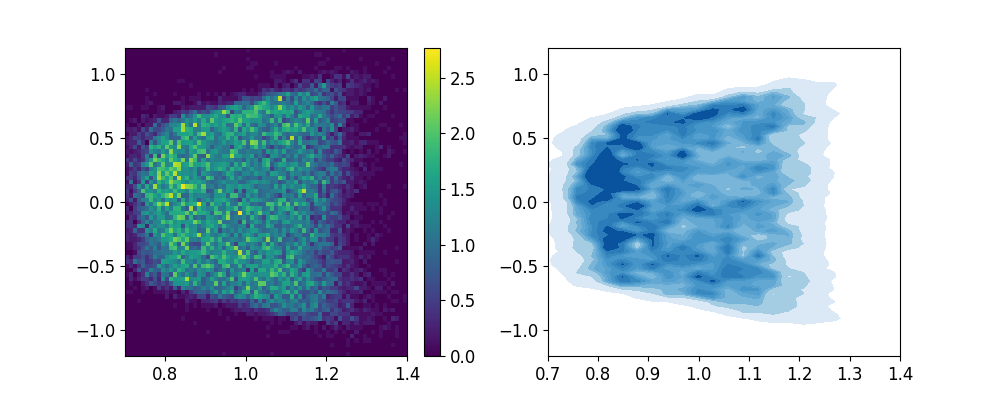
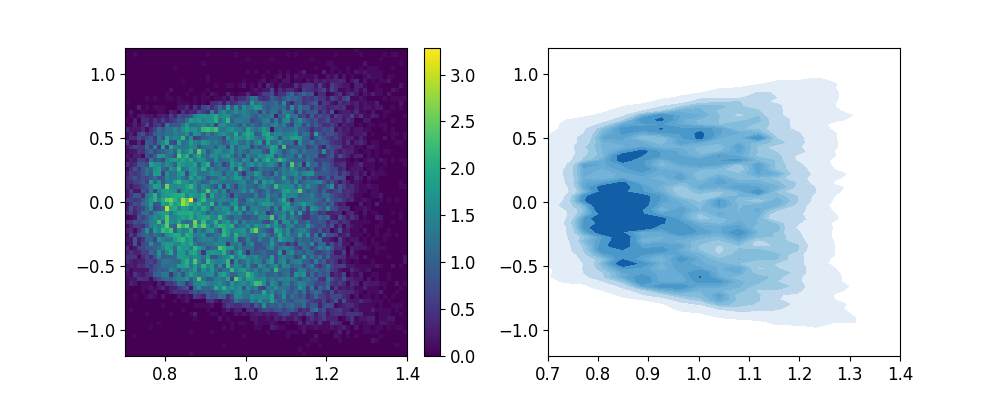
generic commit

diff --git a/scripts/transport/variants/k_diffusion_5.py b/scripts/transport/variants/k_diffusion_5.py
@@ -9,7 +9,7 @@ from get_data import sample_normal, mgan2, sample_spirals, sample_checkerboard, 
 import matplotlib.pyplot as plt
 import numpy as np
 import random
-from lv_stuff.lk_sim import get_VL_data
+from lk_sim import get_VL_data
 from picture_to_dist import sample_elden_ring,sample_t_fractal
 from seaborn import kdeplot
 from scipy.spatial.distance import cdist
@@ -819,6 +819,7 @@ def spheres_exp(N=4000, exp_name='spheres_exp', n_transports=100, N_plot = 0,
         ref_sample = ref_gen(Np)
         RX = np.full((Np, 2), slice_val)
         ref_slice_sample = sample_spheres(N=Np, n=n, RX=RX)
+        ref_slice_sample = np.full(ref_slice_sample.shape, ref_slice_sample[0])
         if normalize_data:
             ref_slice_sample = (ref_slice_sample - mu) / sigma
         slice_sample = compositional_gen(trained_models, ref_sample, ref_slice_sample, idx_dict,
@@ -916,6 +917,8 @@ def lv_exp(N=10000, Yd=18, normal=True, exp_name='lv_exp', n_transports=100,  N_
     X = np.full((N_plot, 4), slice_val)
 
     ref_slice_sample = get_VL_data(N_plot, X=X, Yd=Yd, normal=False, T=20)
+    ref_slice_sample = np.full(ref_slice_sample.shape, ref_slice_sample[0])
+
     ref_slice_sample = (ref_slice_sample - mu)/sigma
 
     ref_sample = ref_gen(N_plot)
